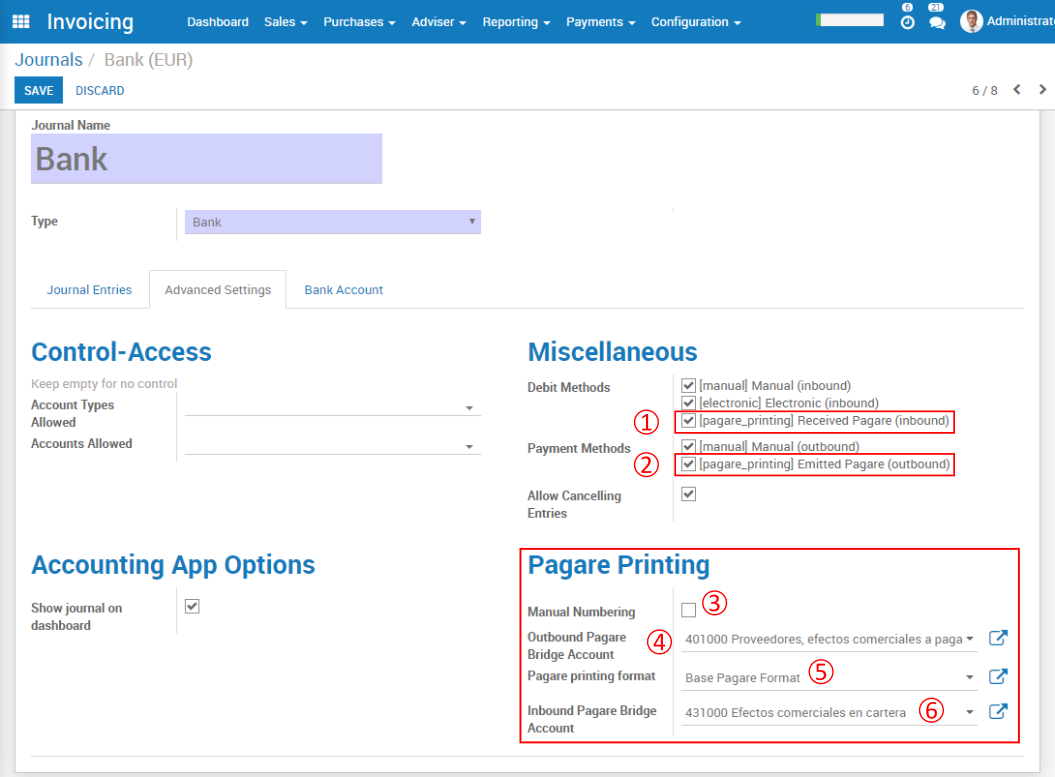
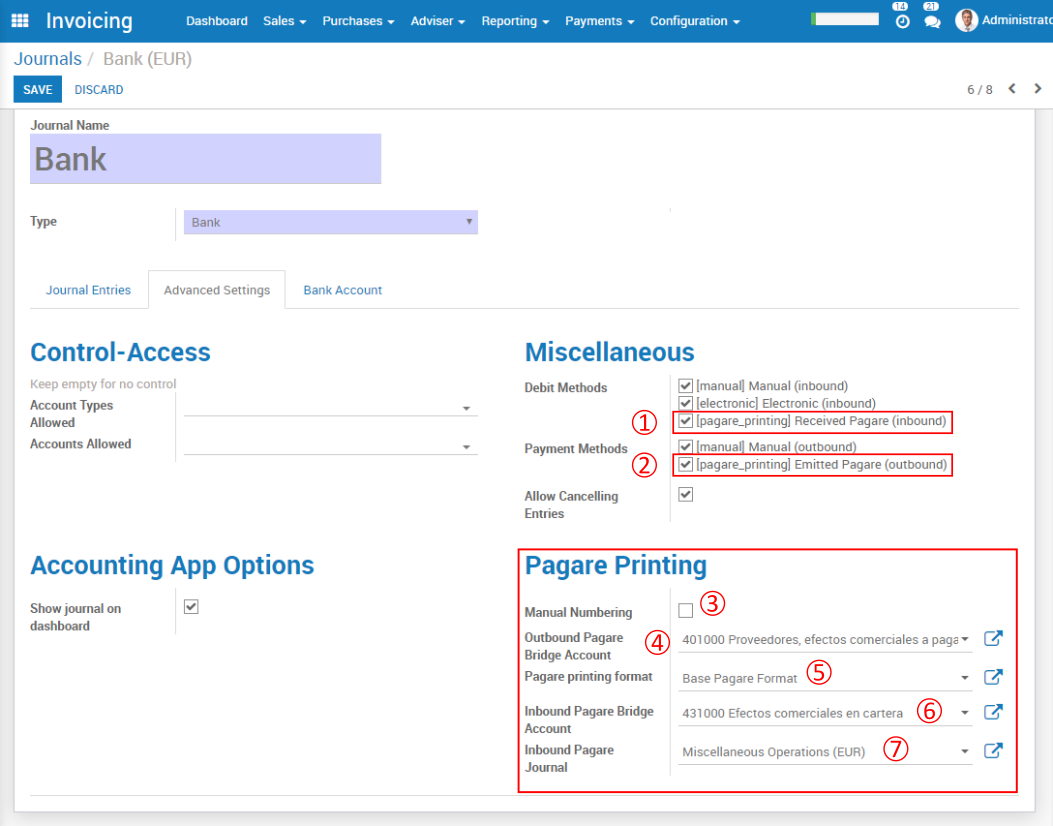
Update translations and doc

diff --git a/account_pagare_printing/static/description/index.html b/account_pagare_printing/static/description/index.html
@@ -34,6 +34,10 @@
                 <span style="color: #ff0000; font-size: 1.5em;">&#9317;</span>.
                 This will move the amount debited to this account.
             </p>
+            <p>
+                If you want that the account move of your received pagare goes to a different journal, you can enter it on
+                <span style="color: #ff0000; font-size: 1.5em;">&#9318;</span>.
+            </p>
         </div>
     </div>
 </section>

diff --git a/account_pagare_printing/README.rst b/account_pagare_printing/README.rst
@@ -22,6 +22,13 @@ Se pueden crear nuevos formatos a través de módulos complementarios y
 asignarlos a un diario bancario seleccionando el formato adecuado en la
 configuración.
 
+Para los pagarés recibidos solamente se realiza el asiento de 430 a 431,
+seleccionando la cuenta 431 como cuenta puente. El número de pagaré se puede
+indicar en el concepto y quedará registrado en el asiento y en el efecto, accesible
+desde la factura.
+Éste asiento se puede realizar en un diario diferente al del banco, indicándolo en la
+configuración.
+
 
 Configuración
 =============
@@ -30,9 +37,13 @@ En el diario del banco se puede seleccionar el modo de pago y cobro Pagaré
 (pagare_printing)
 
 Una vez seleccionado, nos permitirá indicar la cuenta puente para el asiento
-y, en el caso de pagarés emitidos, asignar un contador para la numeración
-manual de los pagarés. Si no se numeran con el contador, al realizar la
-impresión del documento bancario solicitará el número preimpreso en el mismo.
+y asignar un contador para la numeración manual de los pagarés. Si no se
+numeran con el contador, al realizar la impresión del documento bancario
+solicitará el número preimpreso en el mismo.
+
+Para los pagarés recibidos se puede indicar la cuenta puente y el diario en
+el que se desea realizar el asiento (al no ser un movimiento bancario, normalmente
+se realiza en el diario 'Varios').
 
 
 Uso
